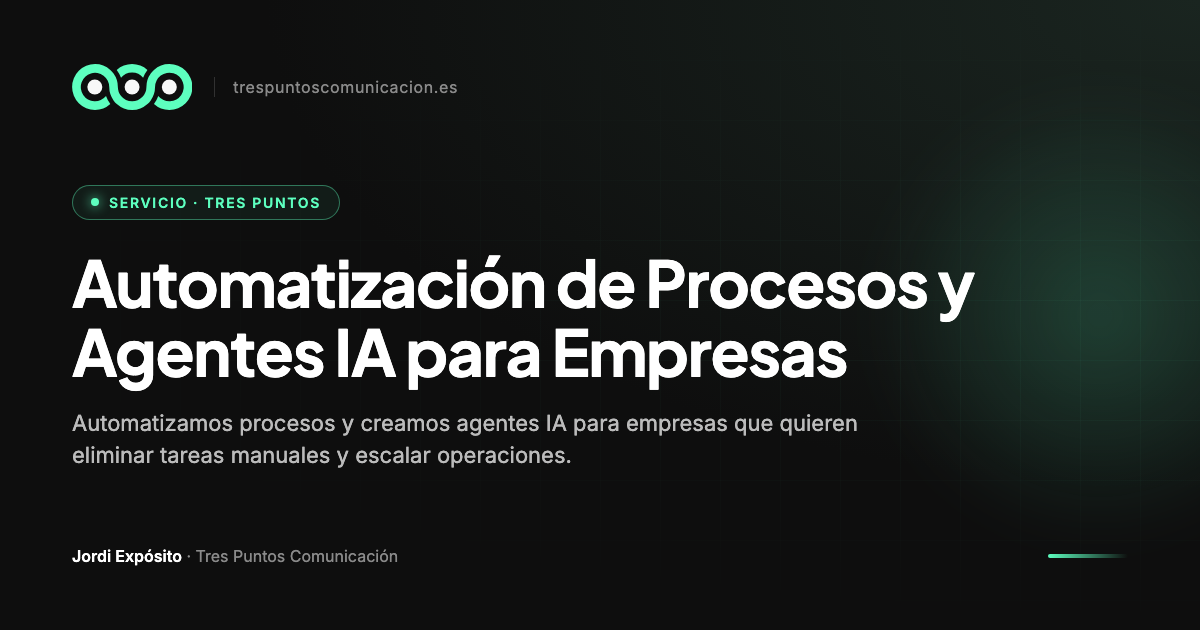
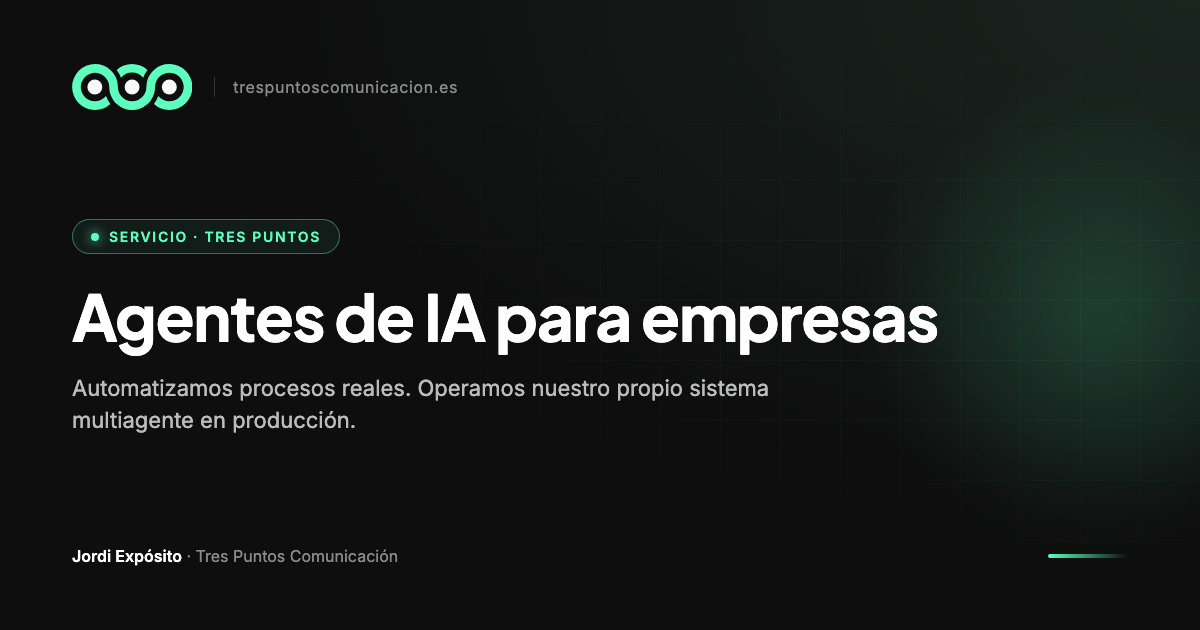
seo(ia): reposicionar página de agentes para liderar "Agentes de IA para empresas" + enlazado blog→hub
- /servicios/automatizacion-agentes-ia-empresas/: title/H1/meta/OG/schema pivotan a "Agentes de IA para empresas" (target ~3.200 búsq/mes, CPC 8-20€). Nueva sección "Caso propio" mostrando el sistema multiagente real de Tres Puntos como prueba. +2 FAQ (chatbots vs agente, implementación IA) como long-tail. OG regenerada.
- blog/desarrollo-web-a-medida-cuando-es-la-decision-correcta/: anchor exacto "desarrollo web a medida" → hub (first-link-counts) para fijar jerarquía hub-dueño (blog pos 23 vs hub pos 10).
- sitemap: lastmod real 2026-06-26 solo en las 2 URLs tocadas.

Validado con Jordan por bridge (sesión 20baa50f). Cruzado contra keyword-map.md.

Changed region(s): [[0.0617, 0.3016, 0.8325, 0.754]]

diff --git a/servicios/automatizacion-agentes-ia-empresas/index.html b/servicios/automatizacion-agentes-ia-empresas/index.html
@@ -30,13 +30,13 @@
   <link rel="manifest" href="/site.webmanifest">
   <meta name="theme-color" content="#5dffbf">
   <meta name="viewport" content="width=device-width, initial-scale=1.0" />
-  <title>Automatizaci&oacute;n de Procesos y Agentes IA para Empresas &middot; Tres Puntos</title>
-  <meta name="description" content="Automatizamos procesos y creamos agentes IA para empresas que quieren eliminar tareas manuales y escalar operaciones." />
+  <title>Agentes de IA para Empresas &middot; Automatizaci&oacute;n con IA &middot; Tres Puntos</title>
+  <meta name="description" content="Agentes de IA para empresas que automatizan procesos reales. Operamos nuestro propio sistema multiagente en producci&oacute;n: lo que implementamos, lo usamos a diario." />
 
   <link rel="canonical" href="https://www.trespuntoscomunicacion.es/servicios/automatizacion-agentes-ia-empresas/" />
-  <meta property="og:title" content="Automatización de Procesos y Agentes IA para Empresas" />
+  <meta property="og:title" content="Agentes de IA para Empresas · Tres Puntos" />
   <meta property="og:description"
-    content="Dise&ntilde;amos automatizaciones y agentes IA que eliminan trabajo manual y conectan sistemas de empresa." />
+    content="Agentes de IA para empresas que automatizan procesos reales. Operamos nuestro propio sistema multiagente en producci&oacute;n." />
   <meta property="og:type" content="website" />
   <meta property="og:url" content="https://www.trespuntoscomunicacion.es/servicios/automatizacion-agentes-ia-empresas" />
   <meta property="og:image" content="https://www.trespuntoscomunicacion.es/img/og/servicio-automatizacion-agentes-ia-empresas.png" />
@@ -45,22 +45,22 @@
   <meta property="og:locale" content="es_ES" />
   <meta property="og:site_name" content="Tres Puntos Comunicaci&oacute;n" />
   <meta name="twitter:card" content="summary_large_image" />
-  <meta name="twitter:title" content="Automatización de Procesos y Agentes IA para Empresas" />
-  <meta name="twitter:description" content="Dise&ntilde;amos automatizaciones y agentes IA que eliminan trabajo manual y conectan sistemas de empresa." />
+  <meta name="twitter:title" content="Agentes de IA para Empresas · Tres Puntos" />
+  <meta name="twitter:description" content="Agentes de IA para empresas que automatizan procesos reales. Operamos nuestro propio sistema multiagente en producci&oacute;n." />
   <meta name="twitter:image" content="https://www.trespuntoscomunicacion.es/img/og/servicio-automatizacion-agentes-ia-empresas.png" />
 
   <script type="application/ld+json">
     {
       "@context": "https://schema.org",
       "@type": "Service",
-      "name": "Automatizaciones y Agentes IA para Empresas",
-      "description": "Automatizamos procesos y creamos agentes IA para empresas que quieren eliminar tareas manuales y escalar operaciones.",
+      "name": "Agentes de IA para Empresas",
+      "description": "Agentes de IA para empresas que automatizan procesos reales. Tres Puntos opera su propio sistema multiagente en producci\u00f3n.",
       "provider": {
         "@type": "Organization",
         "name": "Tres Puntos Comunicaci\u00f3n",
         "url": "https://www.trespuntoscomunicacion.es/"
       },
-      "serviceType": "Automatizaci\u00f3n y Agentes IA"
+      "serviceType": "Agentes de IA y Automatizaci\u00f3n de Procesos"
     }
   </script>
   <script type="application/ld+json">
@@ -90,6 +90,22 @@
           "acceptedAnswer": {
             "@type": "Answer",
             "text": "Depende de la complejidad del sistema. Las primeras automatizaciones pueden estar funcionando en pocas semanas."
+          }
+        },
+        {
+          "@type": "Question",
+          "name": "\u00bfEn qu\u00e9 se diferencia un agente de IA de un chatbot?",
+          "acceptedAnswer": {
+            "@type": "Answer",
+            "text": "Un chatbot responde preguntas. Un agente de IA ejecuta tareas: consulta sistemas, decide seg\u00fan reglas de negocio, act\u00faa sobre tus herramientas y reporta resultados. Para empresas que buscan algo m\u00e1s que un chatbot, los agentes automatizan procesos completos de principio a fin."
+          }
+        },
+        {
+          "@type": "Question",
+          "name": "\u00bfC\u00f3mo se implementa la IA en una empresa?",
+          "acceptedAnswer": {
+            "@type": "Answer",
+            "text": "La implementaci\u00f3n de IA en la empresa es progresiva. Empezamos por un diagn\u00f3stico de procesos, identificamos d\u00f3nde la IA aporta m\u00e1s valor y dise\u00f1amos la arquitectura. Las primeras automatizaciones y agentes entran en producci\u00f3n en pocas semanas y se ampl\u00edan desde ah\u00ed."
           }
         }
       ]
@@ -297,7 +313,7 @@
     }
   </style>
 <script type="application/ld+json">
-{"@context":"https://schema.org","@type":"BreadcrumbList","itemListElement":[{"@type":"ListItem","position":1,"name":"Inicio","item":"https://www.trespuntoscomunicacion.es/"},{"@type":"ListItem","position":2,"name":"Servicios","item":"https://www.trespuntoscomunicacion.es/servicios/"},{"@type":"ListItem","position":3,"name":"Automatización con Agentes IA"}]}
+{"@context":"https://schema.org","@type":"BreadcrumbList","itemListElement":[{"@type":"ListItem","position":1,"name":"Inicio","item":"https://www.trespuntoscomunicacion.es/"},{"@type":"ListItem","position":2,"name":"Servicios","item":"https://www.trespuntoscomunicacion.es/servicios/"},{"@type":"ListItem","position":3,"name":"Agentes de IA para Empresas"}]}
 </script>
 </head>
 
@@ -310,9 +326,9 @@
     <div class="container-main">
       <div class="sp-hero-layout">
         <div class="sp-hero-copy">
-          <span class="section-badge reveal">Automatizaciones y Agentes IA</span>
-          <h1 class="sp-hero-h1 reveal"><span class="text-gradient-standalone">Automatización de procesos</span> y agentes IA para empresas que quieren escalar sin multiplicar equipos</h1>
-          <p class="sp-hero-sub reveal">Construimos automatizaciones y agentes IA que eliminan trabajo manual en tu empresa.</p>
+          <span class="section-badge reveal">Agentes de IA para empresas</span>
+          <h1 class="sp-hero-h1 reveal"><span class="text-gradient-standalone">Agentes de IA para empresas</span> que automatizan procesos de verdad &mdash; no demos</h1>
+          <p class="sp-hero-sub reveal">Dise&ntilde;amos agentes de IA que ejecutan trabajo real en tu empresa. En Tres Puntos operamos nuestro propio sistema multiagente en producci&oacute;n: lo que implementamos, lo usamos cada d&iacute;a.</p>
           <div class="sp-hero-detail reveal">
             <p>Leads que se cualifican solos.<br>
             Procesos internos que se ejecutan sin intervenci&oacute;n.<br>
@@ -551,6 +567,44 @@
     </div>
   </section>
 
+  <!-- ============ 3B. PRUEBA: NUESTRO PROPIO SISTEMA DE AGENTES IA ============ -->
+  <section class="sp-services" aria-label="Nuestro propio sistema de agentes IA">
+    <div class="container-main">
+      <span class="section-badge reveal">Caso propio</span>
+      <h2 class="section-h2 reveal">No es teor&iacute;a: operamos nuestro propio <span class="text-gradient-standalone">sistema de agentes IA</span></h2>
+      <p class="sp-services-intro reveal">La mayor&iacute;a de agencias <em>hablan</em> de inteligencia artificial. Nosotros la usamos cada d&iacute;a para hacer funcionar el negocio. Tres Puntos opera un sistema multiagente en producci&oacute;n: un equipo de agentes de IA especializados que ejecutan tareas reales &mdash;SEO, contenido, propuestas, automatizaci&oacute;n&mdash; coordinados por un orquestador. Lo que dise&ntilde;amos para tu empresa es el mismo modelo que ya tenemos funcionando en la nuestra.</p>
+
+      <div class="sp-services-grid">
+        <div class="sp-service-card reveal">
+          <h3 class="sp-service-title">Orquestador</h3>
+          <p class="sp-service-text">Coordina al resto de agentes: decide qu&eacute; se ejecuta y cu&aacute;ndo, reparte el trabajo y centraliza el reporting. Es el cerebro que mantiene a todo el equipo alineado.</p>
+        </div>
+        <div class="sp-service-card reveal reveal-delay-1">
+          <h3 class="sp-service-title">Agente de SEO</h3>
+          <p class="sp-service-text">Monitoriza posiciones, cruza datos de Search Console, detecta oportunidades y propone cambios. El posicionamiento deja de depender de revisiones manuales puntuales.</p>
+        </div>
+        <div class="sp-service-card reveal">
+          <h3 class="sp-service-title">Agente de contenido</h3>
+          <p class="sp-service-text">Redacta art&iacute;culos, posts y newsletters a partir de briefings y de la voz de marca. El equipo revisa y publica en lugar de empezar desde una p&aacute;gina en blanco.</p>
+        </div>
+        <div class="sp-service-card reveal reveal-delay-1">
+          <h3 class="sp-service-title">Agente de propuestas</h3>
+          <p class="sp-service-text">Genera briefs, actas y documentos comerciales con la estructura y el tono de la empresa. Lo que antes eran horas de redacci&oacute;n se resuelve en minutos.</p>
+        </div>
+        <div class="sp-service-card reveal">
+          <h3 class="sp-service-title">Agente de automatizaci&oacute;n</h3>
+          <p class="sp-service-text">Conecta sistemas y construye flujos en n8n: leads, notificaciones, sincronizaciones entre herramientas. La informaci&oacute;n se mueve sola entre plataformas.</p>
+        </div>
+        <div class="sp-service-card reveal reveal-delay-1">
+          <h3 class="sp-service-title">Agente de research</h3>
+          <p class="sp-service-text">Analiza competencia, mercado y benchmarks de producto. Las decisiones se toman sobre datos actualizados, no sobre intuiciones.</p>
+        </div>
+      </div>
+
+      <p class="sp-services-intro reveal" style="margin-top:2rem">Cada agente trabaja sobre datos reales, se comunica con los dem&aacute;s y reporta resultados. Ese mismo modelo &mdash;agentes especializados que colaboran&mdash; es el que implementamos para empresas que quieren que la IA <strong>ejecute</strong>, no solo conteste.</p>
+    </div>
+  </section>
+
   <!-- ============ 4. C&Oacute;MO TRABAJAMOS ============ -->
   <section class="sp-methodology" aria-label="C&oacute;mo trabajamos">
     <div class="container-main">
@@ -749,6 +803,30 @@
               <div class="faq-answer-inner">
                 <p>Depende de la complejidad del sistema.</p>
                 <p>Las primeras automatizaciones pueden estar funcionando en pocas semanas.</p>
+              </div>
+            </div>
+          </div>
+
+          <div class="faq-item reveal">
+            <button class="faq-question" aria-expanded="false">&iquest;En qu&eacute; se diferencia un agente de IA de un chatbot?<svg class="faq-icon" fill="none" stroke="currentColor" stroke-width="2" viewBox="0 0 24 24">
+                <path d="M12 4.5v15m7.5-7.5h-15" />
+              </svg></button>
+            <div class="faq-answer">
+              <div class="faq-answer-inner">
+                <p>Un chatbot responde preguntas. Un agente de IA ejecuta tareas: consulta sistemas, decide seg&uacute;n reglas de negocio, act&uacute;a sobre tus herramientas y reporta resultados.</p>
+                <p>Para empresas que buscan algo m&aacute;s que un chatbot, los agentes automatizan procesos completos de principio a fin.</p>
+              </div>
+            </div>
+          </div>
+
+          <div class="faq-item reveal">
+            <button class="faq-question" aria-expanded="false">&iquest;C&oacute;mo se implementa la IA en una empresa?<svg class="faq-icon" fill="none" stroke="currentColor" stroke-width="2" viewBox="0 0 24 24">
+                <path d="M12 4.5v15m7.5-7.5h-15" />
+              </svg></button>
+            <div class="faq-answer">
+              <div class="faq-answer-inner">
+                <p>La implementaci&oacute;n de IA en la empresa es progresiva. Empezamos por un diagn&oacute;stico de procesos, identificamos d&oacute;nde la IA aporta m&aacute;s valor y dise&ntilde;amos la arquitectura.</p>
+                <p>Las primeras automatizaciones y agentes entran en producci&oacute;n en pocas semanas y se amplian desde ah&iacute;.</p>
               </div>
             </div>
           </div>

diff --git a/blog/desarrollo-web-a-medida-cuando-es-la-decision-correcta/index.html b/blog/desarrollo-web-a-medida-cuando-es-la-decision-correcta/index.html
@@ -404,7 +404,7 @@
       <!-- ── Sección 3 ── -->
       <h2 id="section-3">3. Qué implica realmente el desarrollo web personalizado</h2>
 
-      <p>El <strong>desarrollo web a medida</strong> no es "lo mismo pero más caro". Es otra categoría de solución.</p>
+      <p>El <a href="/servicios/desarrollo-web-a-medida-barcelona/"><strong>desarrollo web a medida</strong></a> no es "lo mismo pero más caro". Es otra categoría de solución.</p>
 
       <p>Cuando <a href="/servicios/desarrollo-web-a-medida-barcelona/">construimos una plataforma a medida</a>, diseñamos la arquitectura desde cero partiendo de los requisitos reales del negocio. No adaptamos un molde existente. Construimos el molde.</p>
 